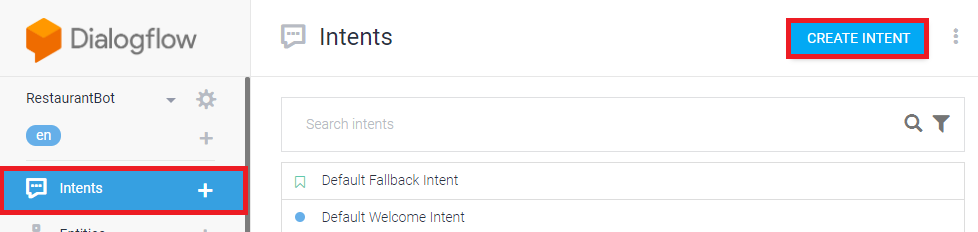
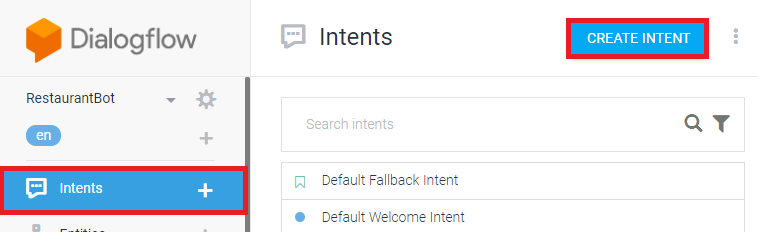
formating changes

diff --git a/Technology/Artificial Intelligence/Natural Language Processing/Concepts/Chatbot/Dialogflow/restaurant-bot/dialogflow-instructions.md b/Technology/Artificial Intelligence/Natural Language Processing/Concepts/Chatbot/Dialogflow/restaurant-bot/dialogflow-instructions.md
@@ -14,7 +14,7 @@
 2.	On your left pane you should be able to see **Create Agent**. Click on it and on the new page should open.
 
 <div style="text-align:center">
-  <img width="460" height="300" src="img/dialogflow-1.png" alt="Web Integration Step 1">
+  <img width="250" height="300" src="img/dialogflow-1.png" alt="Web Integration Step 1">
 </div>
 
 3.	Provide a name to the bot **Restaurant Bot**.
@@ -32,7 +32,7 @@ Dialogflow created a project on GCP for you to access logs and connect cloud fun
 2.	To create an intent, click on **Create Intent** button.
  
 <div style="text-align:center">
-  <img width="460" height="300" src="img/dialogflow-3.png" alt="Web Integration Step 1">
+  <img src="img/dialogflow-3.png" alt="Web Integration Step 1">
 </div>
 
 3.	Name the intent as **restaurant_search** and let’s skip to the **Training Phrase** section.
@@ -43,13 +43,13 @@ Dialogflow created a project on GCP for you to access logs and connect cloud fun
 
 4.	Enter all the training phrases you can think of in this section for training the chatbot.
 **Example**: 
-•	Restaurants near me
-•	I need a list of restaurants near me
-•	List of restaurants around here
+* Restaurants near me
+* I need a list of restaurants near me
+* List of restaurants around here
 5.	Head to the bottom of the screen to enable Fulfillments.
  
 <div style="text-align:center">
-  <img width="460" height="300" src="img/dialogflow-5.png" alt="Web Integration Step 1">
+  <img src="img/dialogflow-5.png" alt="Web Integration Step 1">
 </div>
 
 * Click on the toggle button to **Enable Webhook call for this intent**. Remember to do this for all the intents in your agent. The reason Dialogflow has kept it this way is because there are times when a user would want to keep responses for a few intents within Dialogflow and for other to use fulfilments.
@@ -61,32 +61,32 @@ Dialogflow created a project on GCP for you to access logs and connect cloud fun
 2.	To create entities, click on **Create Entity** button.
 
 <div style="text-align:center">
-  <img width="460" height="300" src="img/dialogflow-6.png" alt="Web Integration Step 1">
+  <img src="img/dialogflow-6.png" alt="Web Integration Step 1">
 </div>
 
 3.	Name the entity as ‘**Cuisines**’ and add all the entity values. Remember to add all the synonyms for each value. In this case you can also enable **Fuzzy matching** by clicking on the checkbox. 
 
 <div style="text-align:center">
-  <img width="460" height="300" src="img/dialogflow-7.png" alt="Web Integration Step 1">
+  <img src="img/dialogflow-7.png" alt="Web Integration Step 1">
 </div>
 
 * Fuzzy matching is used to match entities in user queries. This usually helps when there are spelling errors or partial matches. 
 * Regexp as the name states helps in matching a specific pattern in a user query. It uses Google RE2 Regular Expressions.
 
-**Example**: 
+**Example**:
 **Invoice Number**: Dec/18-19/278
 **Pattern**: [A-Z]{1,3}/[0-9]{1,2}-[0-9]{1,2}/[0-9]{1,3} 
 
 4.	As you are putting the training phrases, you will see "**cuisines**" are automatically identified. 
 
 <div style="text-align:center">
-  <img width="460" height="300" src="img/dialogflow-8.png" alt="Web Integration Step 1">
+  <img src="img/dialogflow-8.png" alt="Web Integration Step 1">
 </div>
 
 5.	Once an entity has been recognized it appears in the **Actions and Parameters** section.
 
 <div style="text-align:center">
-  <img width="460" height="300" src="img/dialogflow-9.png" alt="Web Integration Step 1">
+  <img src="img/dialogflow-9.png" alt="Web Integration Step 1">
 </div>
 
 If you would like to handle entities within Dialogflow UI you can click on **Required** checkbox. This will ensure that when an intent matches with the user query, if the entity isn’t present in the query the agent requests the user to enter the entity before continuing to the next step. In this case, we will be handling the entity in fulfilment.
@@ -94,16 +94,16 @@ If you would like to handle entities within Dialogflow UI you can click on **Req
 ### Now download the agent and import it into Dialogflow.
 
 <div style="text-align:center">
-  <img width="460" height="300" src="img/dialogflow-10.png" alt="Web Integration Step 1">
+  <img src="img/dialogflow-10.png" alt="Web Integration Step 1">
 </div>
 
 1.	Click on **Setting** icon. 
 2.	Then click on **Export and Import** tab
 3.	Now click on **Import From Zip**. In the popup that opens click on **Select File** and import the downloaded zip file.
-4.	Once you select the file type IMPORT in the text box.
+4.	Once you select the file type **IMPORT** in the text box.
 
 <div style="text-align:center">
-  <img width="460" height="300" src="img/dialogflow-11.png" alt="Web Integration Step 1">
+  <img src="img/dialogflow-11.png" alt="Web Integration Step 1">
 </div>
 
 Click on **Import** button to import all the entities and intents. Now your Agent is all set for the next step. Before heading towards the next step go through the intents created. 

diff --git a/Technology/Artificial Intelligence/Natural Language Processing/Concepts/Chatbot/Dialogflow/restaurant-bot/README.md b/Technology/Artificial Intelligence/Natural Language Processing/Concepts/Chatbot/Dialogflow/restaurant-bot/README.md
@@ -19,7 +19,7 @@ As per the best design practice, the bot should welcome the user with a greeting
 * Once we have all the details we can hit /search endpoint which is the main and final endpoint where you will get all the restaurant details. By default, you will get 20 top matched restaurants. For this development we are going with Top 5 so that we don’t clutter the chat screen. 
 * You can also play around with Zomato API to get comfortable with it. 
 
-### [Step 1: Setup and Installation](installarion-instructions.md)
+### [Step 1: Setup and Installation](installation-instructions.md)
 ### [Step 2: Conversation Design in Dialogflow](dialogflow-instructions.md)
 ### [Step 3: Firebase Fulfilment](firebase-fulfillment-instructions.md)
 ### [Step 4: Web Integration](web-integration-instructions.md)

diff --git a/Technology/Artificial Intelligence/Natural Language Processing/Concepts/Chatbot/Dialogflow/restaurant-bot/firebase-fulfillment-instructions.md b/Technology/Artificial Intelligence/Natural Language Processing/Concepts/Chatbot/Dialogflow/restaurant-bot/firebase-fulfillment-instructions.md
@@ -51,5 +51,5 @@ We prefer not to, so we click on **‘N’**.
   <img width="460" height="300" src="img/fulfillment-4.png" alt="Web Integration Step 1">
 </div>
 
-    Past the firebase functions link we copied earlier then scroll down the same page and click on **Save**.
+    Past the firebase functions link we copied earlier then scroll down the same page and click on <b>Save</b>.
 17.	Now you are set to test the chatbot.
